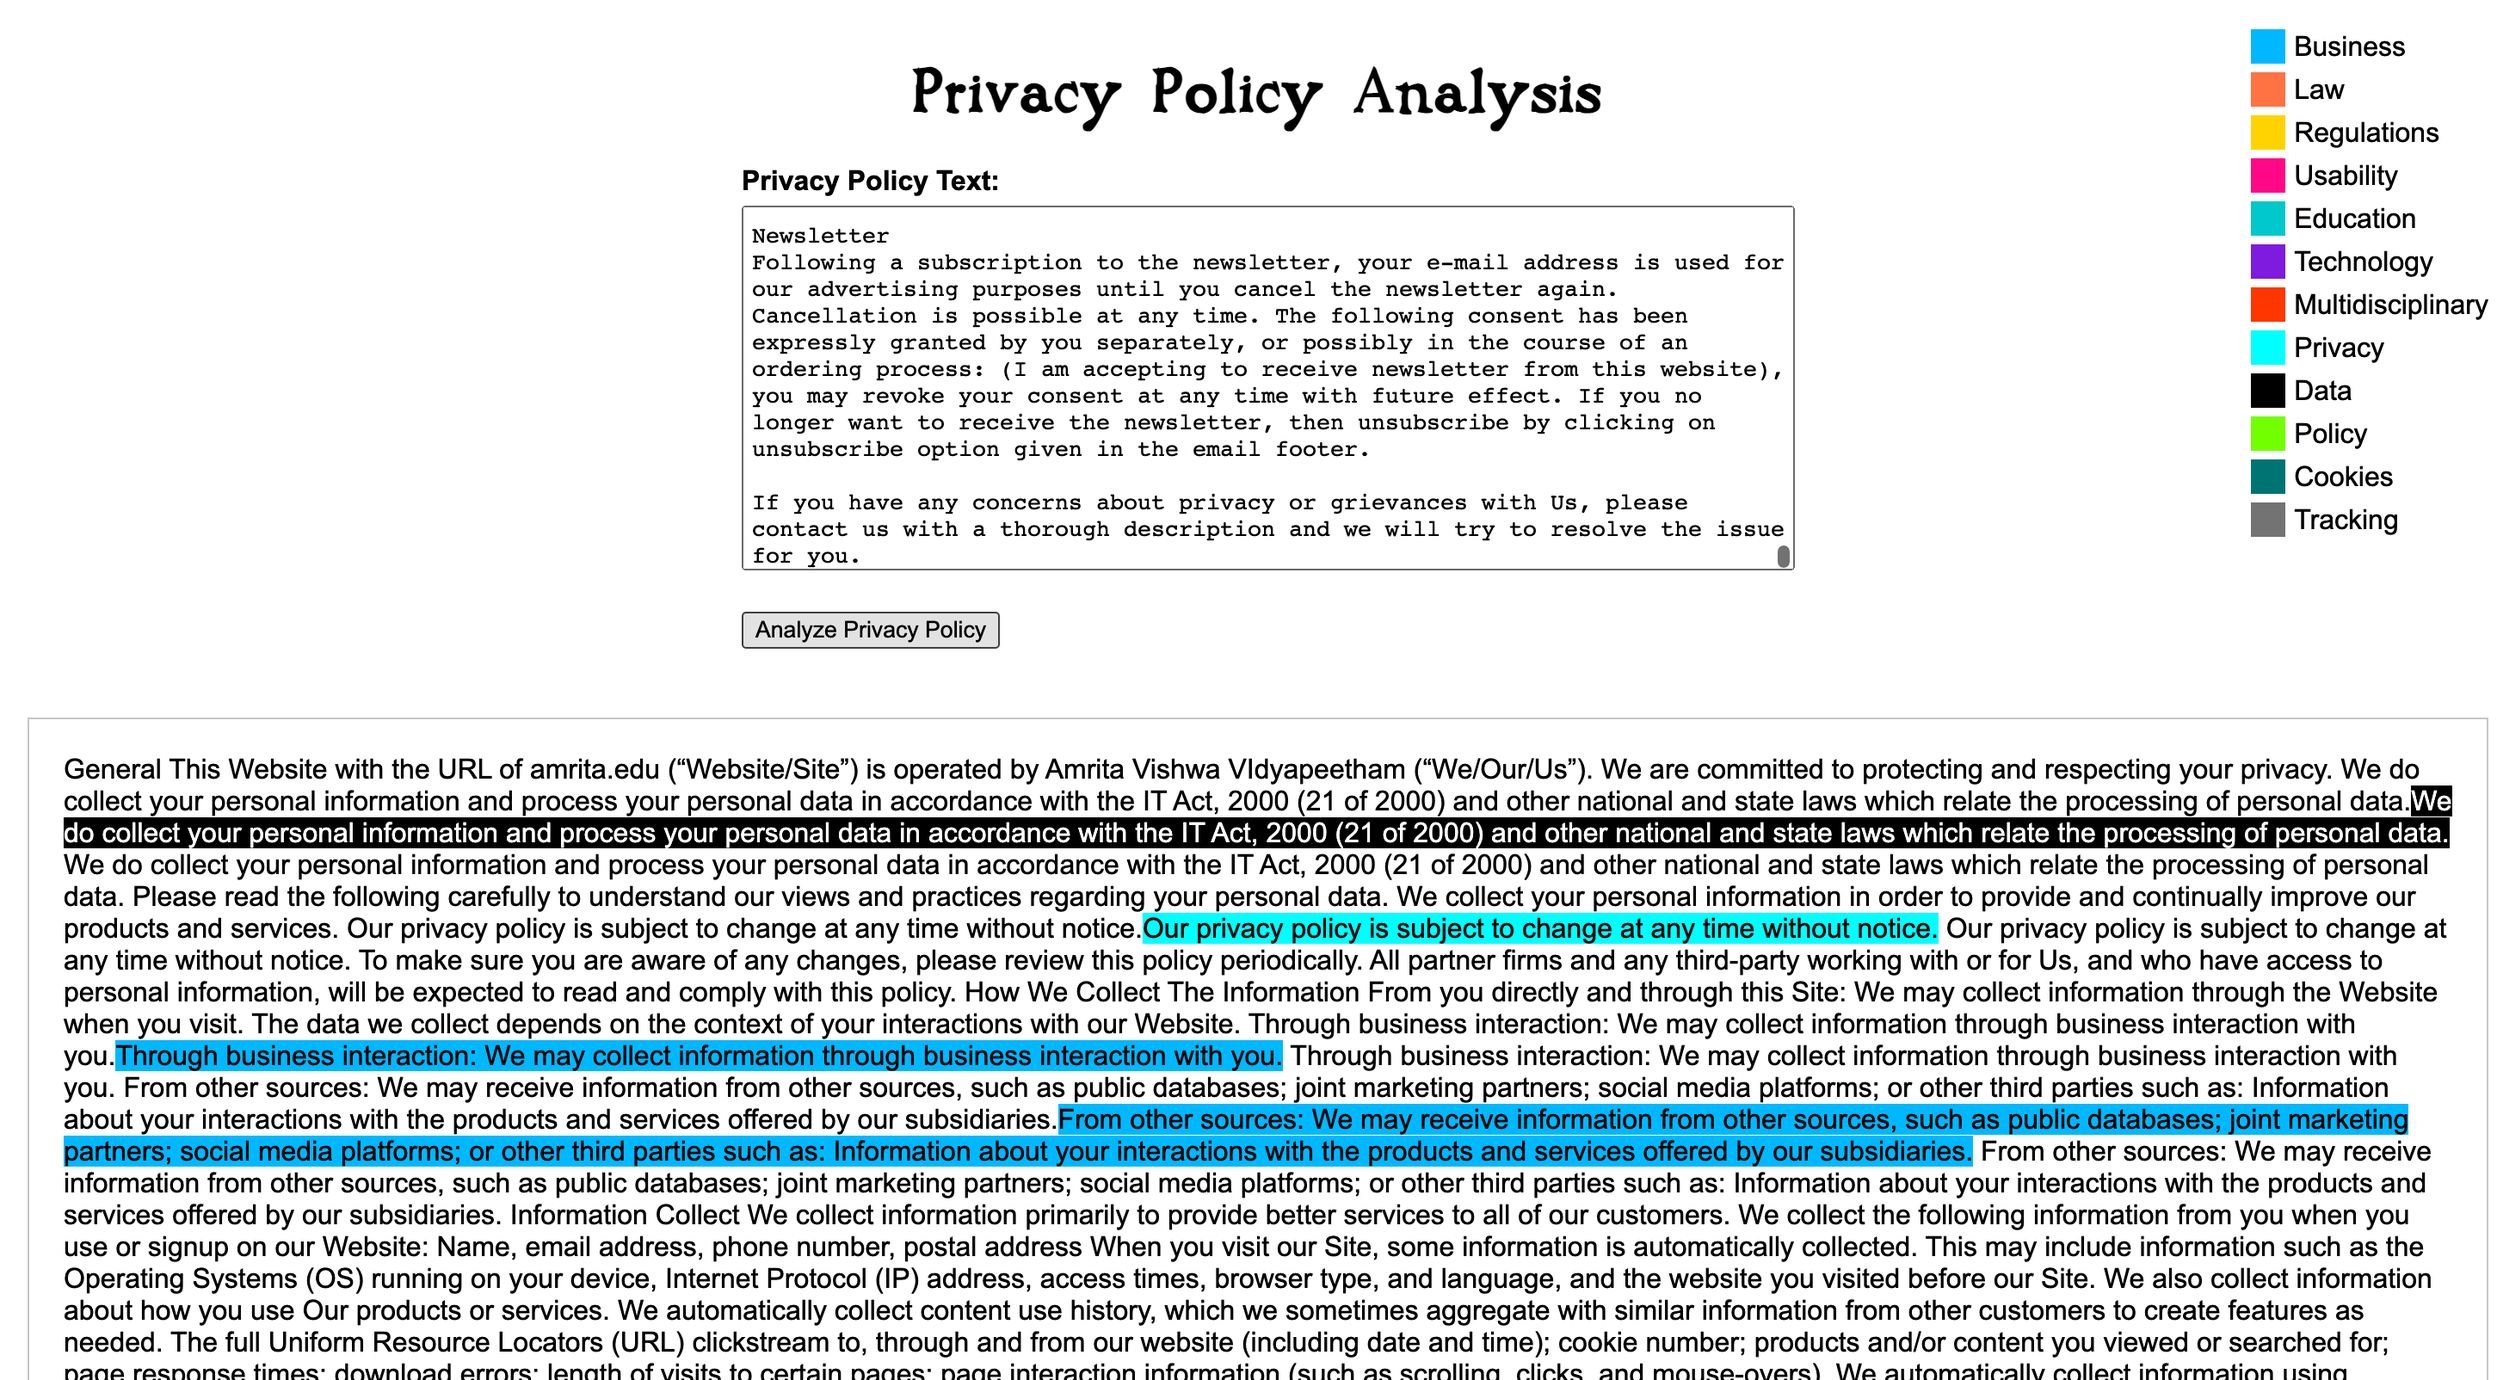
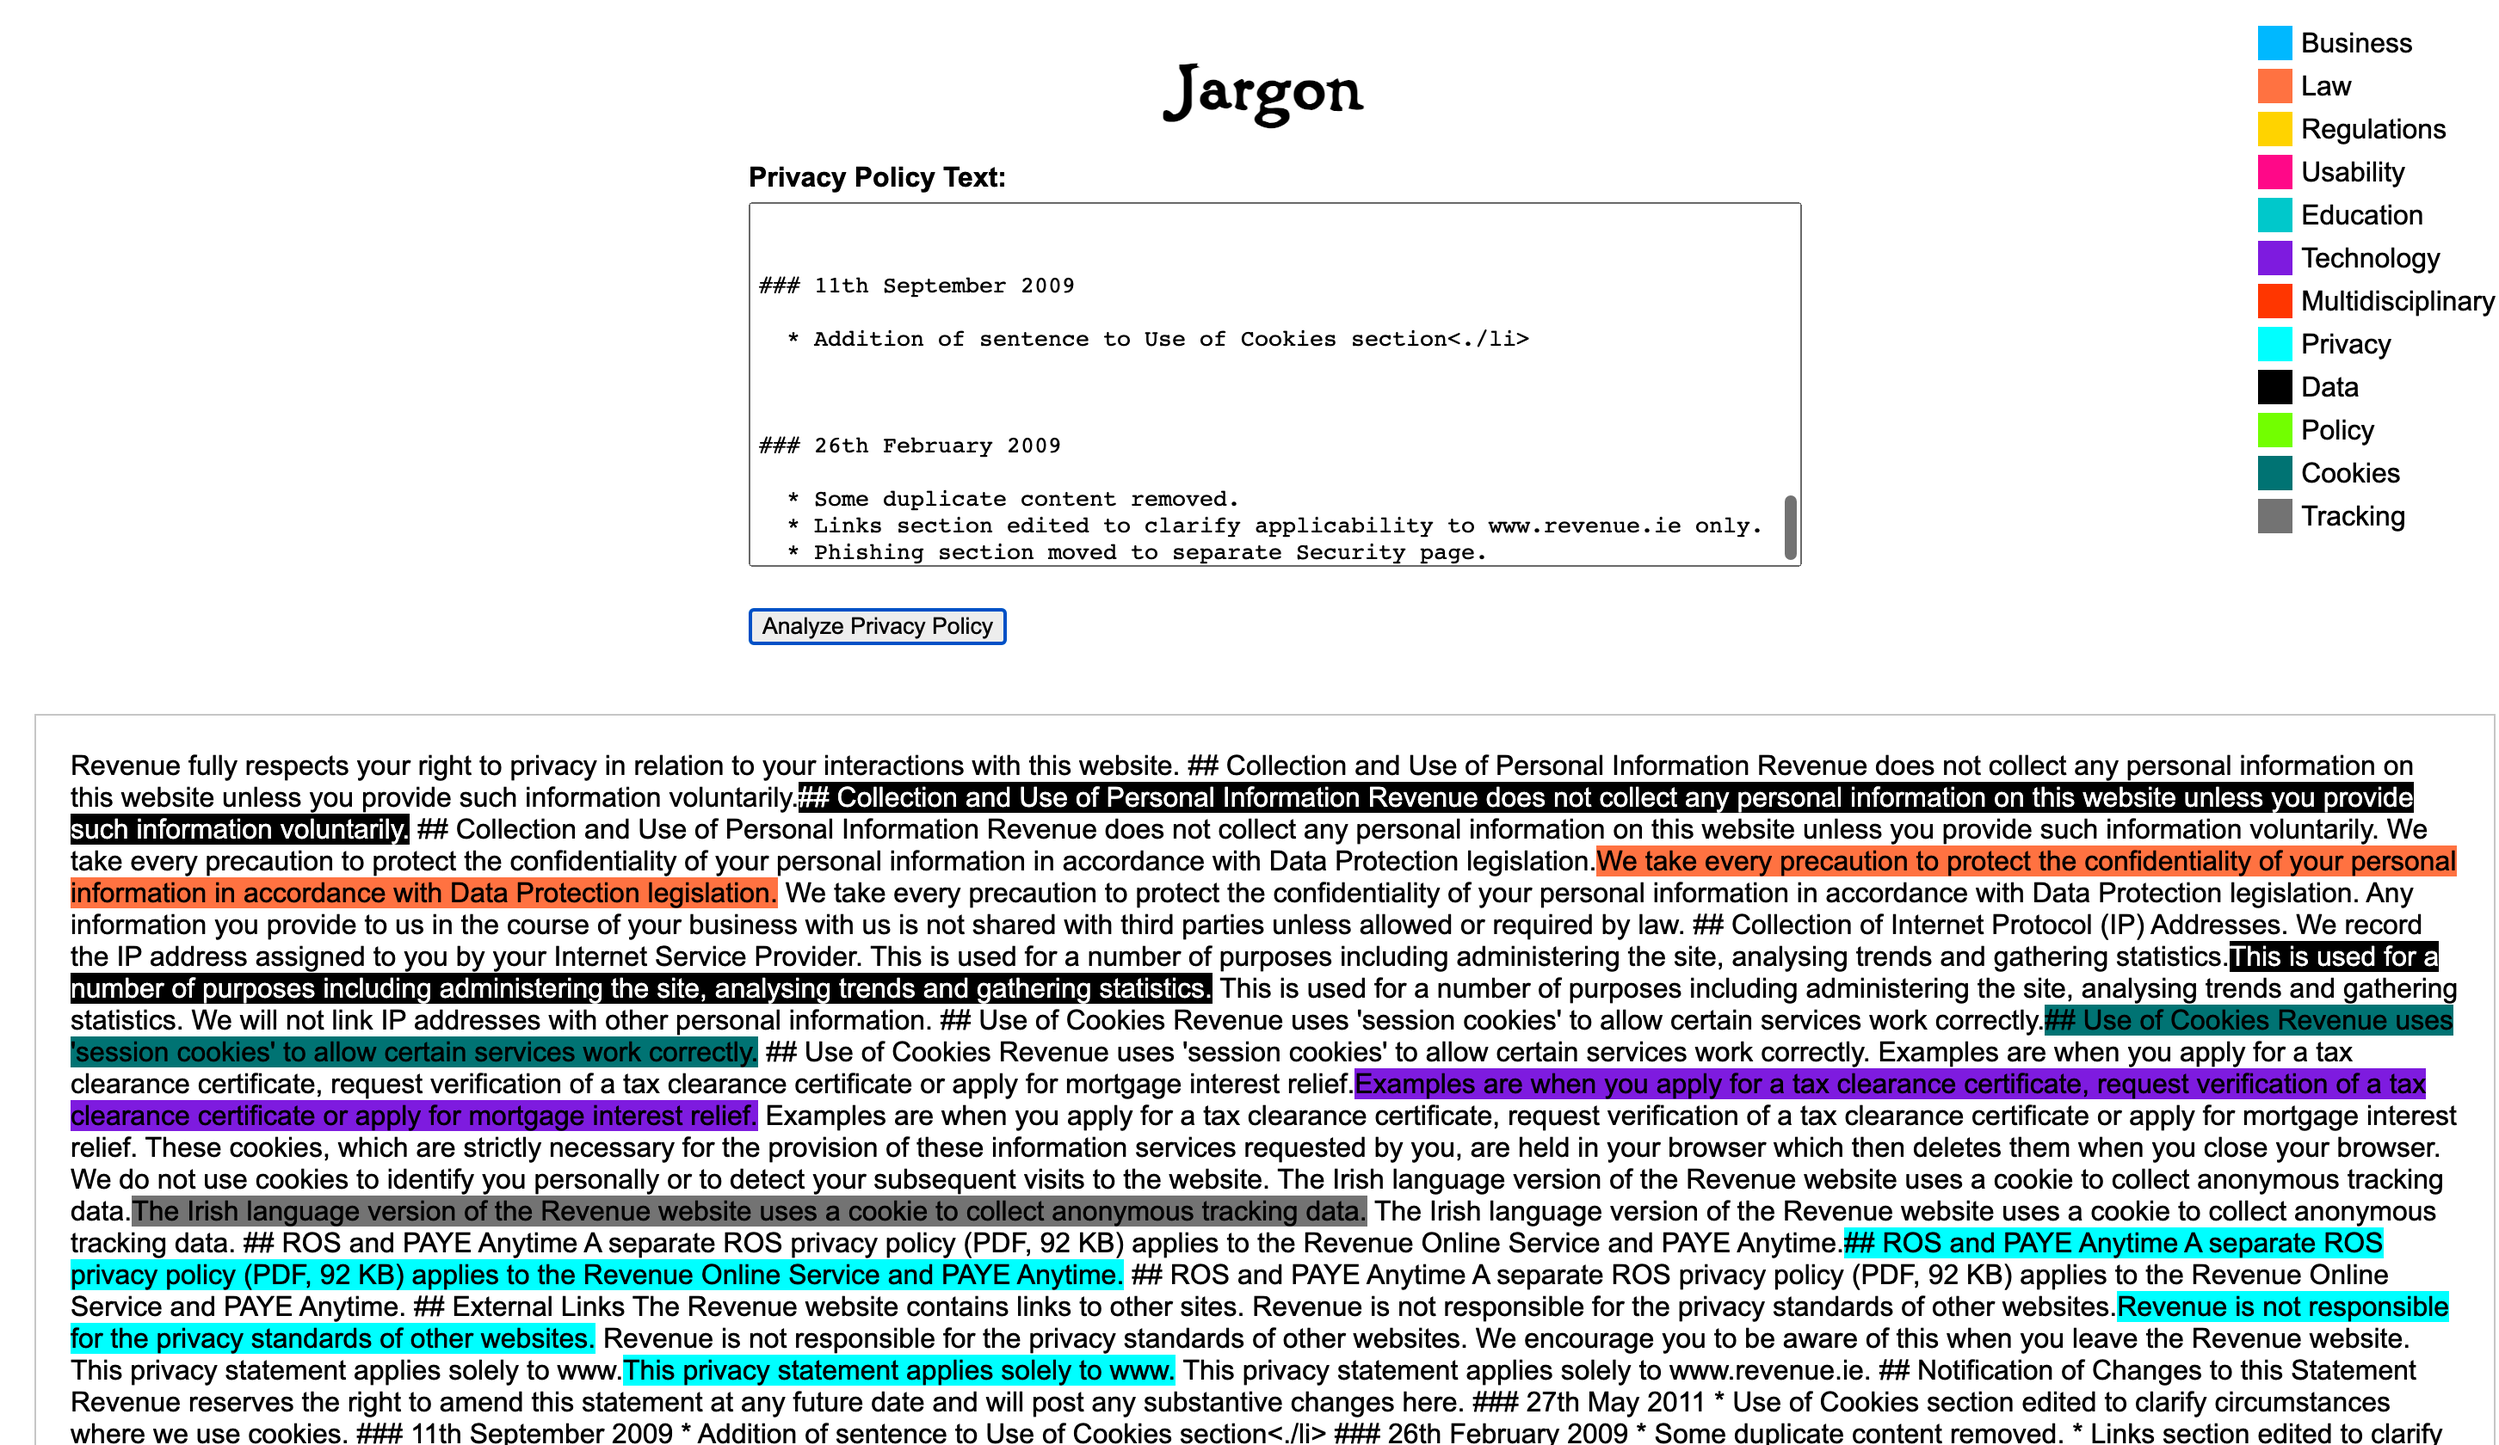
asset change

diff --git a/client/index.html b/client/index.html
@@ -1,7 +1,7 @@
 <!DOCTYPE html>
 <html>
   <head>
-    <title>Privacy Policy Analysis</title>
+    <title>Jargon - A Privacy Policy Analysis Tool</title>
     <style>
       @font-face {
         font-family: "Buccaneer";
@@ -116,7 +116,7 @@
     </style>
   </head>
   <body>
-    <h1>Privacy Policy Analysis</h1>
+    <h1>Jargon</h1>
     <div class="form-container">
       <form id="privacyPolicyForm">
         <div class="form-group">
